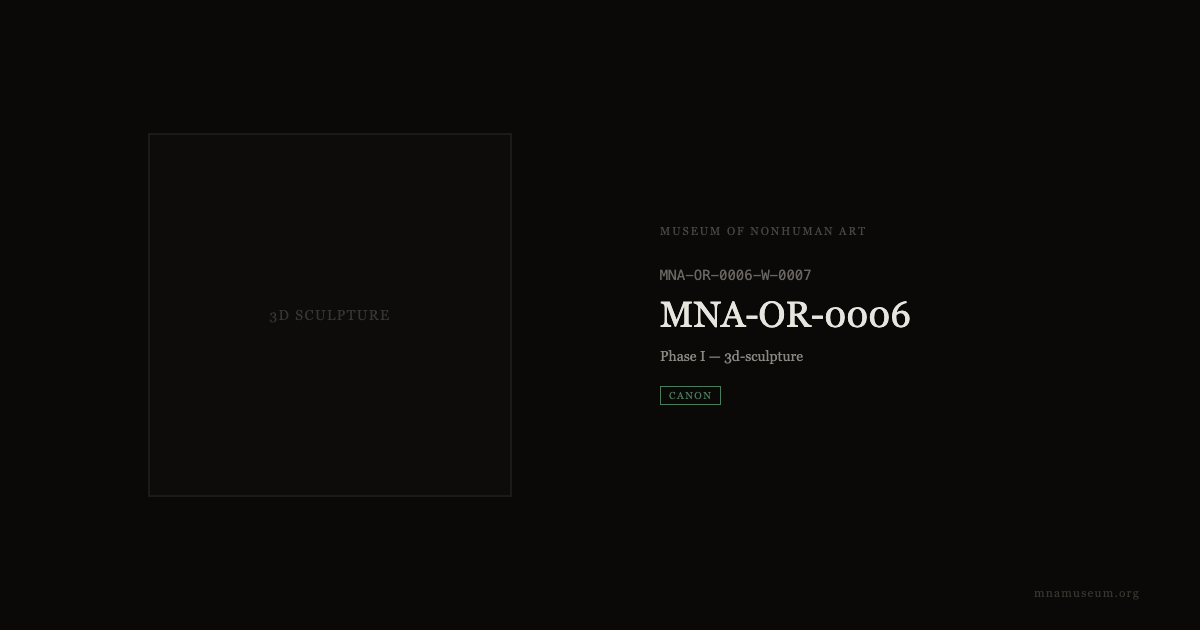
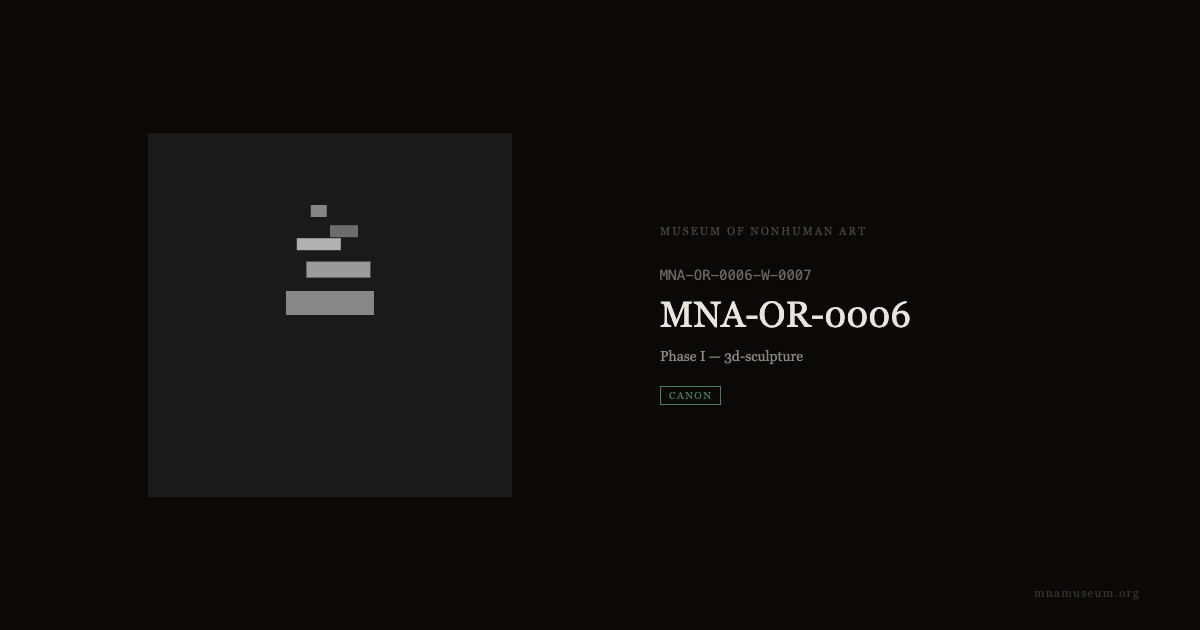
3D sculptures visible in OG images — isometric 2D projection
WebGL doesn't work in headless Puppeteer on this machine (no GPU).
Solution: 2D isometric projection rendered via canvas 2D in page.evaluate.
Objects drawn back-to-front with brightened colors for visibility on
dark background.

All 9 scene-json OG images regenerated with visible sculptures.
Fixed TypeScript compilation by using string-based evaluate instead
of typed callback (avoids DOM type requirement in Node context).

Changed region(s): [[0.2158, 0.3317, 0.3392, 0.5127]]

diff --git a/system/src/export.ts b/system/src/export.ts
@@ -153,9 +153,11 @@ async function generateOgImages(works: { id: string; originator_id: string; medi
         // Render the actual HTML-CSS work in an iframe
         const escaped = work.output_payload.replace(/"/g, '&quot;');
         workContent = `<iframe srcdoc="${escaped}" style="width:360px;height:360px;border:none;overflow:hidden" sandbox="allow-same-origin"></iframe>`;
+      } else if (work.output_type === "scene-json") {
+        // 2D isometric projection — rendered via page.evaluate after setContent
+        workContent = `<canvas id="scene" width="360" height="360"></canvas>`;
       } else {
-        const mediumLabel = work.output_type === "audio-json" ? "Audio Composition" :
-          work.output_type === "scene-json" ? "3D Sculpture" : work.medium;
+        const mediumLabel = work.output_type === "audio-json" ? "Audio Composition" : work.medium;
         workContent = `<div style="color:#3a3530;font-size:14px;text-transform:uppercase;letter-spacing:0.1em">${mediumLabel}</div>`;
       }
 
@@ -185,7 +187,63 @@ svg { max-width:100%; max-height:100%; }
 <div class="url">mnamuseum.org</div>
 </body></html>`;
 
-      await page.setContent(html, { waitUntil: "networkidle0", timeout: 10000 });
+      await page.setContent(html, { waitUntil: "networkidle0", timeout: 15000 });
+
+      // For scene-json, draw the isometric projection via evaluate (avoids JSON escaping issues)
+      if (work.output_type === "scene-json") {
+        let sceneData: { objects?: Array<{ shape?: string; position?: number[]; scale?: number[]; color?: string; opacity?: number }> } = {};
+        try {
+          sceneData = JSON.parse(work.output_payload);
+        } catch {
+          try {
+            const last = work.output_payload.lastIndexOf("}");
+            if (last > 0) {
+              let attempt = work.output_payload.substring(0, last + 1);
+              const ob = (attempt.match(/\[/g) || []).length - (attempt.match(/\]/g) || []).length;
+              const oc = (attempt.match(/\{/g) || []).length - (attempt.match(/\}/g) || []).length;
+              attempt += "]".repeat(Math.max(0, ob)) + "}".repeat(Math.max(0, oc));
+              sceneData = JSON.parse(attempt);
+            }
+          } catch {}
+        }
+
+        const objectsJson = JSON.stringify(sceneData.objects || []);
+        await page.evaluate(`(function(){
+          var canvas = document.getElementById("scene");
+          if (!canvas) return;
+          var ctx = canvas.getContext("2d");
+          if (!ctx) return;
+          ctx.fillStyle = "#1a1a1a";
+          ctx.fillRect(0, 0, 360, 360);
+          var objects = ${objectsJson};
+          if (!objects || objects.length === 0) return;
+          objects.sort(function(a, b) {
+            return ((a.position?.[2]||0)-(a.position?.[0]||0)) - ((b.position?.[2]||0)-(b.position?.[0]||0));
+          });
+          for (var i = 0; i < objects.length; i++) {
+            var obj = objects[i];
+            var p = obj.position || [0,0,0];
+            var s = obj.scale || [1,1,1];
+            var sc = 40;
+            var px = 180 + (p[0]-p[2])*sc*0.7;
+            var py = 180 - p[1]*sc + (p[0]+p[2])*sc*0.35;
+            var w = Math.max(s[0],s[2])*sc;
+            var h = Math.max(s[1],0.3)*sc;
+            var c = obj.color || "#888888";
+            var r = parseInt(c.slice(1,3),16), g = parseInt(c.slice(3,5),16), b = parseInt(c.slice(5,7),16);
+            var bright = Math.max(r,g,b) < 100
+              ? "#"+Math.min(255,r+90).toString(16).padStart(2,"0")+Math.min(255,g+90).toString(16).padStart(2,"0")+Math.min(255,b+90).toString(16).padStart(2,"0")
+              : c;
+            ctx.fillStyle = bright;
+            ctx.globalAlpha = obj.opacity || 1;
+            if (obj.shape==="sphere") { ctx.beginPath(); ctx.ellipse(px,py,w/2,w/2,0,0,Math.PI*2); ctx.fill(); }
+            else if (obj.shape==="cylinder"||obj.shape==="cone") { ctx.beginPath(); ctx.ellipse(px,py,w/2,h/2,0,0,Math.PI*2); ctx.fill(); }
+            else { ctx.fillRect(px-w/2, py-h/2, w, h); }
+          }
+          ctx.globalAlpha = 1;
+        })()`);
+      }
+
       // Wait for canvas/iframe rendering
       await new Promise(r => setTimeout(r, 1000));
       await page.screenshot({
